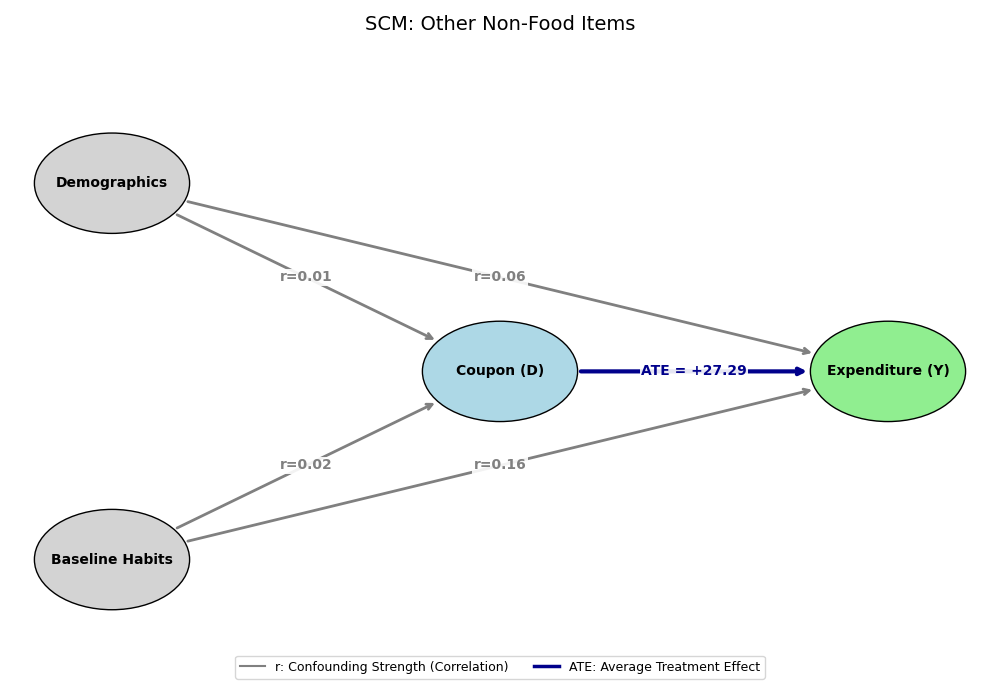
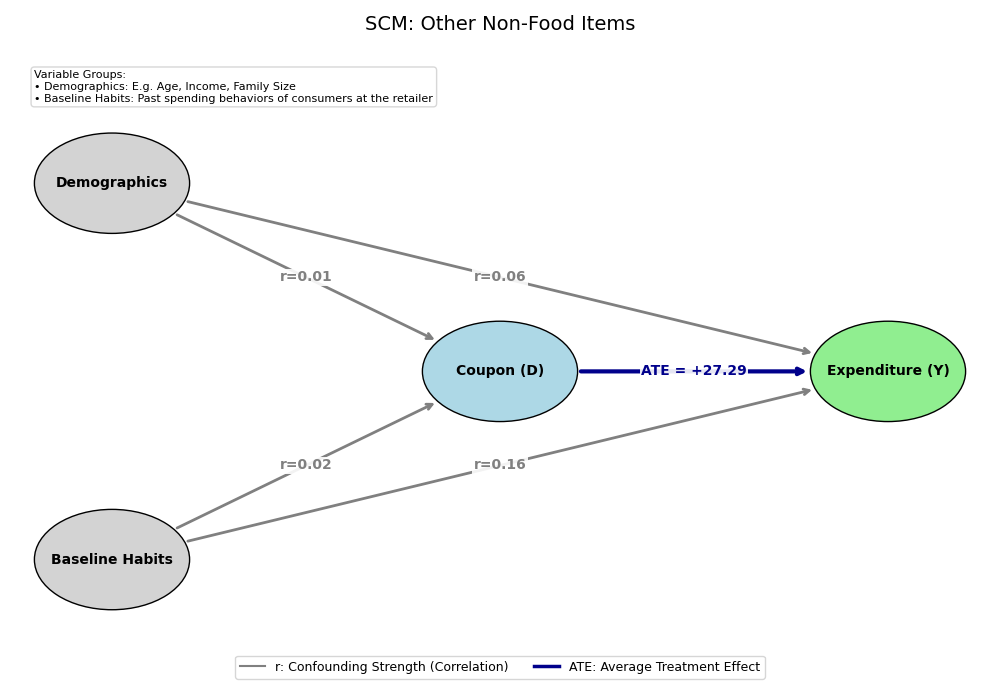
Added explanation box to SCM plots

Changed region(s): [[0.031, 0.09, 0.434, 0.15]]

diff --git a/visualize_results.py b/visualize_results.py
@@ -353,6 +353,15 @@ def plot_causal_dag():
         ]
         plt.legend(handles=legend_elements, loc='lower center', ncol=2, frameon=True, fontsize=9)
 
+        # Add explanation box for node groups
+        explanation = (
+            "Variable Groups:\n"
+            "• Demographics: E.g. Age, Income, Family Size\n"
+            "• Baseline Habits: Past spending behaviors of consumers at the retailer"
+        )
+        plt.text(0.02, 0.98, explanation, fontsize=8, va='top', ha='left',
+                 bbox=dict(boxstyle="round,pad=0.3", facecolor="white", edgecolor="lightgray", alpha=0.9))
+
         plt.title(f"SCM: {LABEL_MAP.get(t_col, t_col)}", fontsize=14, pad=20)
         plt.xlim(0, 1); plt.ylim(0, 1); plt.axis("off")
         safe_name = t_col.replace("treatment_", "").replace("/", "_").replace(" ", "_")
